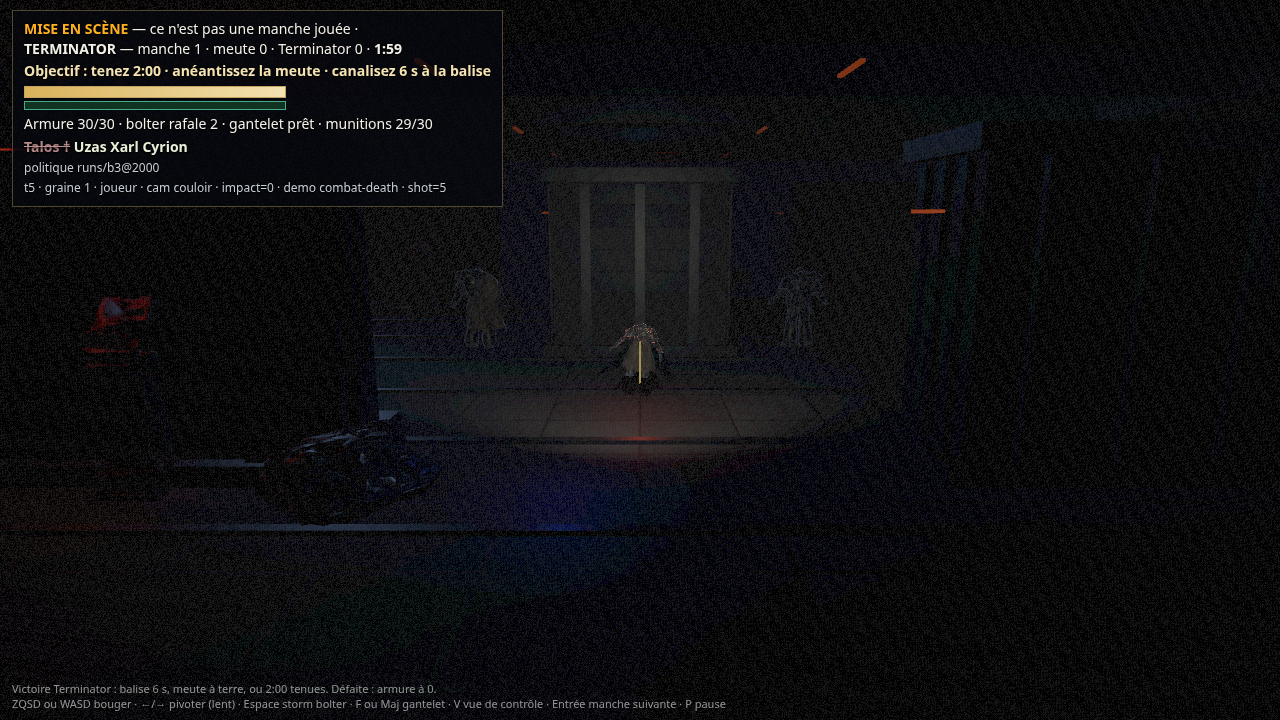
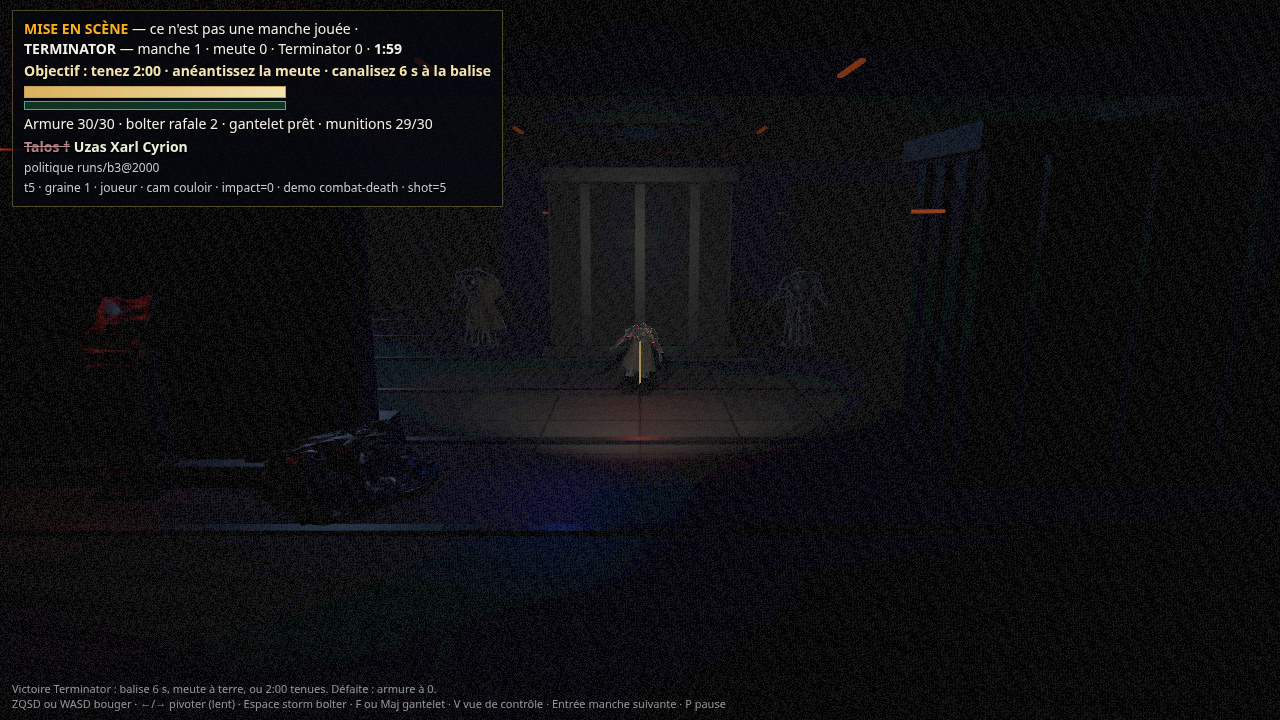
Recapture combat SwiftShader après merge #58 (NL et TERM)
Demos NL dodge / TERM gantelet + planches trois-quarts. Idle TERM
figé et applyTerminatorLook conservés. 0 erreur console.

diff --git a/scripts/capture-combat-anims.ts b/scripts/capture-combat-anims.ts
@@ -69,20 +69,31 @@ const jobs: [string, string][] = [
   ['attack-t4', 'demo=combat-attack&cam=couloir&shot=4&impact=0&tex=512&seed=1'],
   ['attack-t5', 'demo=combat-attack&cam=couloir&shot=5&impact=0&tex=512&seed=1'],
   ['attack-t7', 'demo=combat-attack&cam=couloir&shot=7&impact=0&tex=512&seed=1'],
+  ['nl-attack-troisquarts-t5', 'demo=combat-attack&cam=troisquarts&shot=5&impact=0&tex=512&seed=1'],
   ['hit-t4', 'demo=combat-hit&cam=couloir&shot=4&impact=0&tex=512&seed=1'],
   ['hit-t5', 'demo=combat-hit&cam=couloir&shot=5&impact=0&tex=512&seed=1'],
   ['hit-t6', 'demo=combat-hit&cam=couloir&shot=6&impact=0&tex=512&seed=1'],
   ['hit-epaule-t5', 'demo=combat-hit&cam=epaule&shot=5&impact=0&tex=512&seed=1'],
+  ['term-hit-troisquarts-t5', 'demo=combat-hit&cam=troisquarts&shot=5&impact=0&tex=512&seed=1'],
   ['death-t5', 'demo=combat-death&cam=couloir&shot=5&impact=0&tex=512&seed=1'],
   ['death-t7', 'demo=combat-death&cam=couloir&shot=7&impact=0&tex=512&seed=1'],
   ['death-t10', 'demo=combat-death&cam=couloir&shot=10&impact=0&tex=512&seed=1'],
   ['death-t14', 'demo=combat-death&cam=couloir&shot=14&impact=0&tex=512&seed=1'],
+  ['nl-death-troisquarts-t10', 'demo=combat-death&cam=troisquarts&shot=10&impact=0&tex=512&seed=1'],
   ['dodge-t2', 'demo=combat-dodge&cam=couloir&shot=2&impact=0&tex=512&seed=1'],
   ['dodge-t4', 'demo=combat-dodge&cam=couloir&shot=4&impact=0&tex=512&seed=1'],
   ['dodge-t5', 'demo=combat-dodge&cam=couloir&shot=5&impact=0&tex=512&seed=1'],
   ['dodge-epaule-t4', 'demo=combat-dodge&cam=epaule&shot=4&impact=0&tex=512&seed=1'],
+  ['term-dodge-troisquarts-t4', 'demo=combat-dodge&cam=troisquarts&shot=4&impact=0&tex=512&seed=1'],
   ['shot-t4', 'demo=combat-shot&cam=couloir&shot=4&impact=0&tex=512&seed=1'],
   ['shot-t5', 'demo=combat-shot&cam=couloir&shot=5&impact=0&tex=512&seed=1'],
+  ['term-shot-troisquarts-t5', 'demo=combat-shot&cam=troisquarts&shot=5&impact=0&tex=512&seed=1'],
+  ['nl-dodge-t3', 'demo=combat-nl-dodge&cam=couloir&shot=3&impact=0&tex=512&seed=1'],
+  ['nl-dodge-troisquarts-t4', 'demo=combat-nl-dodge&cam=troisquarts&shot=4&impact=0&tex=512&seed=1'],
+  ['term-fist-t5', 'demo=combat-term-fist&cam=couloir&shot=5&impact=0&tex=512&seed=1'],
+  ['term-fist-troisquarts-t6', 'demo=combat-term-fist&cam=troisquarts&shot=6&impact=0&tex=512&seed=1'],
+  ['nl-hit-t12', 'demo=combat-term-fist&cam=couloir&shot=12&impact=0&tex=512&seed=1'],
+  ['nl-hit-troisquarts-t12', 'demo=combat-term-fist&cam=troisquarts&shot=12&impact=0&tex=512&seed=1'],
 ];
 for (const [name, q] of jobs) urls[name] = await shot(name, q);
 

diff --git a/web/main.ts b/web/main.ts
@@ -637,6 +637,29 @@ const DEMO_SCRIPTS: Record<string, DemoScript> = {
     player(t: number): TAction { return { fwd: 0, strafe: 0, turn: 0, bolt: t === 3, fist: false }; },
     nls(): number[] { return [0, 0, 0, 0]; },
   },
+  // Recul NL (action 2) : one-shot dodge, TERM hors cadre d'attaque.
+  'combat-nl-dodge': {
+    place(w: World) {
+      w.t.x = 8; w.t.y = 12; w.t.facing = 0; w.t.vx = 0; w.t.vy = 0;
+      w.nls.forEach((n) => { n.alive = true; n.cd = 20; n.armTicks = 0; n.stunTicks = 0; });
+      w.nls[1].x = 9.2; w.nls[1].y = 13.4; w.nls[1].facing = Math.atan2(12 - 13.4, 8 - 9.2);
+      w.nls[0].x = 16; w.nls[0].y = 8; w.nls[2].x = 16; w.nls[2].y = 16; w.nls[3].x = 20; w.nls[3].y = 12;
+    },
+    player(): TAction { return { fwd: 0, strafe: 0, turn: 0, bolt: false, fist: false }; },
+    nls(t: number): number[] { return [0, t === 2 ? 2 : 0, 0, 0]; },
+  },
+  // Gantelet : charge 8 ticks puis impact. Un NL au contact meurt ; un survivant prend le stun (hit).
+  'combat-term-fist': {
+    place(w: World) {
+      w.t.x = 8; w.t.y = 12; w.t.facing = 0; w.t.vx = 0; w.t.vy = 0; w.t.fistCd = 0; w.t.fistCharge = 0;
+      w.nls.forEach((n) => { n.alive = true; n.cd = 20; n.armTicks = 0; n.stunTicks = 0; n.hp = 1; });
+      w.nls[0].x = 9.6; w.nls[0].y = 12.0; w.nls[0].facing = Math.PI;
+      w.nls[1].x = 8.2; w.nls[1].y = 14.4; w.nls[1].facing = -Math.PI / 2;
+      w.nls[2].x = 16; w.nls[2].y = 8; w.nls[3].x = 18; w.nls[3].y = 16;
+    },
+    player(t: number): TAction { return { fwd: 0, strafe: 0, turn: 0, bolt: false, fist: t === 3 }; },
+    nls(): number[] { return [0, 0, 0, 0]; },
+  },
 };
 const DEMO_CFG = DEMO ? DEMO_SCRIPTS[DEMO] ?? null : null;
 function startRound() {
